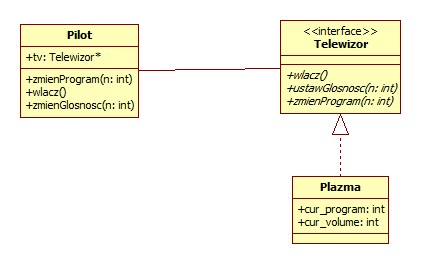
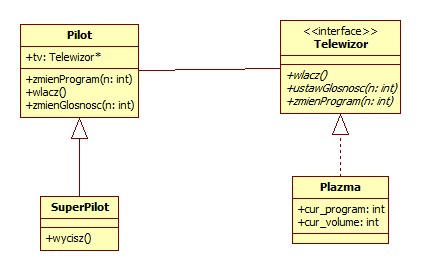
lepiej ale dalej bez formy

Changed region(s): [[0.0309, 0.0606, 0.9572, 0.5152], [0.6793, 0.6364, 0.9264, 0.9394], [0.0926, 0.697, 0.3088, 0.9394]]

diff --git a/Bridge/main.cpp b/Bridge/main.cpp
@@ -49,14 +49,24 @@ public:
     }
 };
 
+class SuperPilot : public Pilot
+{
+public:
+    void mute()
+    {
+        this->tv->ustawGlosnosc(0);
+    }
+};
+
 int main()
 {
     Telewizor *p = new Plazma();
-    Pilot pilot;
+    SuperPilot pilot;
     pilot.tv = p;
     pilot.wlacz();
     pilot.zmienGlosnosc(10);
     pilot.zmienProgram(42);
+    pilot.mute();
 
     return 0;
 }
